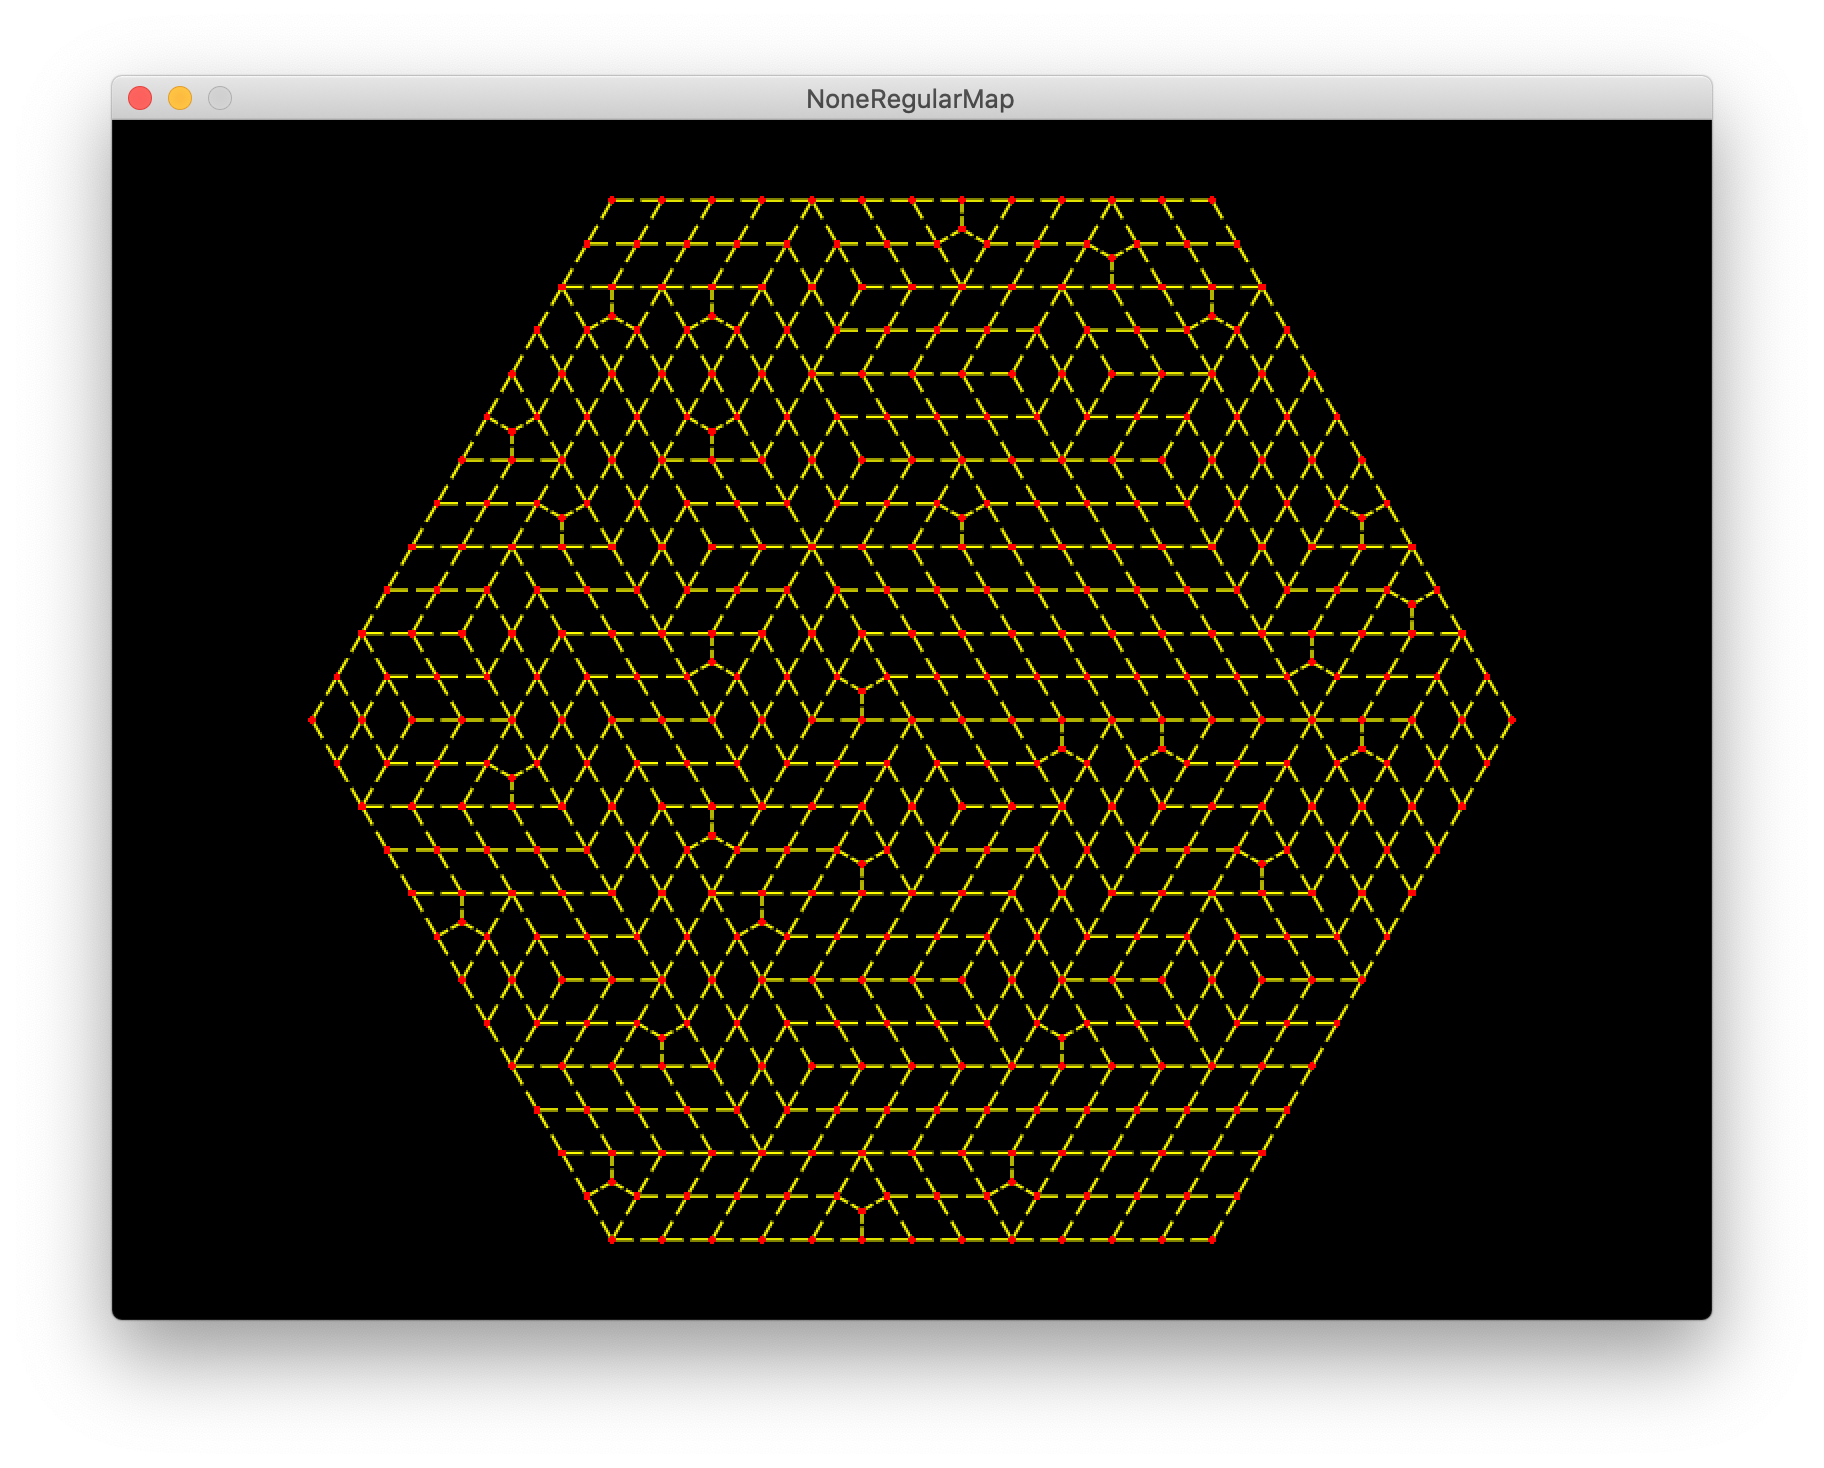
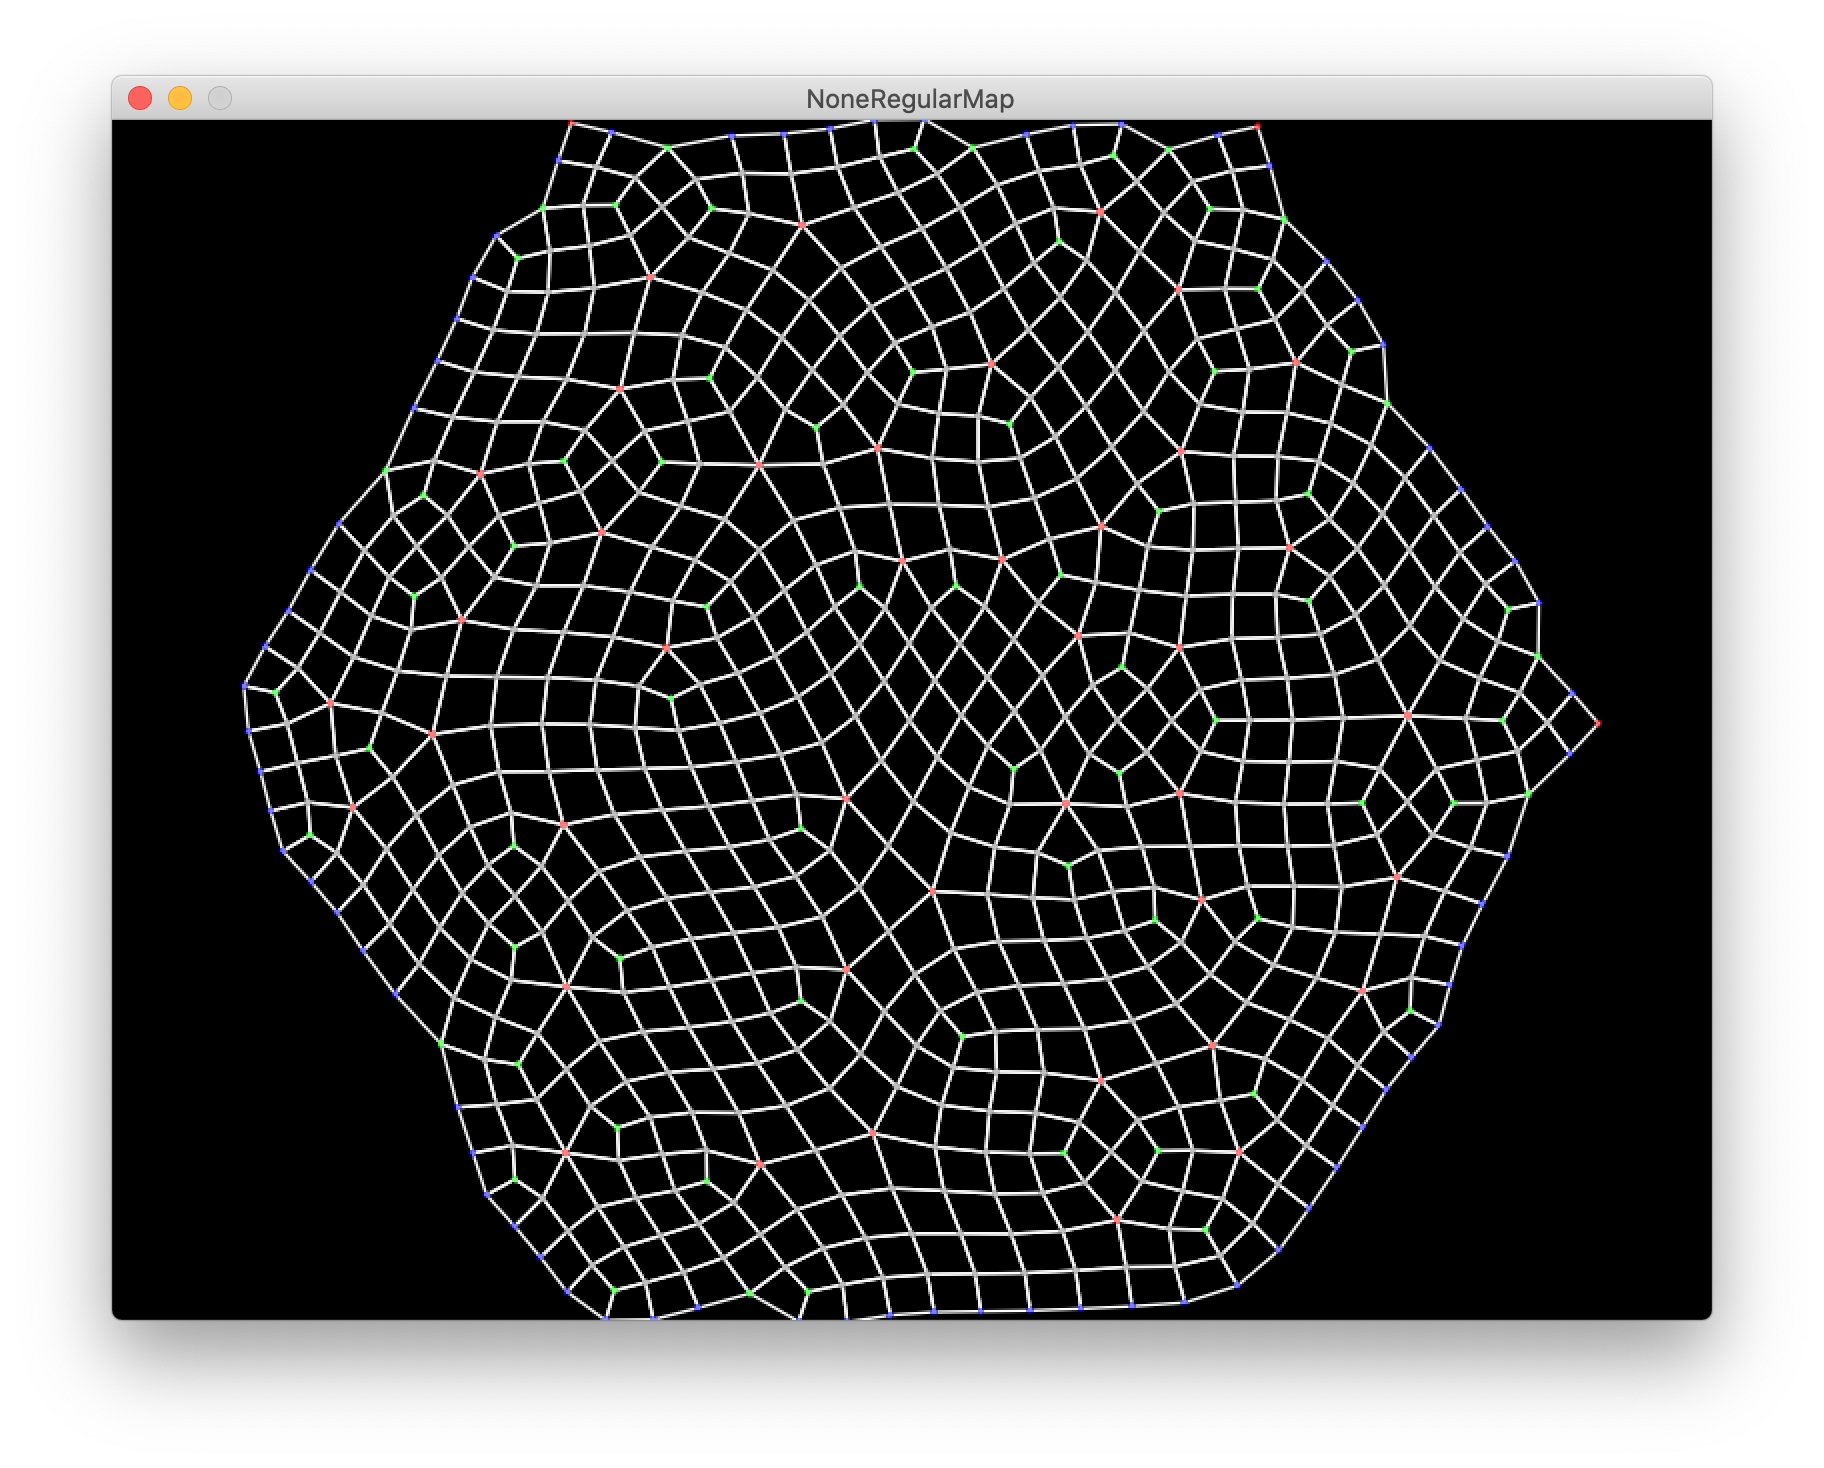
import improvment from smoothing algorithm. select better parameter as input

Changed region(s): [[0.125, 0.0613, 0.875, 0.9196]]

diff --git a/src/smooth.ts b/src/smooth.ts
@@ -3,6 +3,23 @@ import {Vector} from './vector'
 import {Quad} from './quad'
 import {Colors} from './color'
 
+function closest(point:Vector,distanceMax:number,points:Vector[]):number{
+	let min = distanceMax
+	let selectedMin = -1
+	for(let i:number=0;i<points.length;i++){
+		let d:number = point.dist(points[i])
+		if(d<min){
+			selectedMin = i;
+			min = d
+		}
+	}
+	return selectedMin
+}
+
+function mapping(before:[Vector,Vector,Vector,Vector],after:[Vector,Vector,Vector,Vector],strechFactor:number):number{
+	return closest(after[0],strechFactor*10,before)
+}
+
 export function smooth(mesh:Mesh,strechFactor:number,shrinkFactor:number,steps:number):[Mesh,Mesh]{
 	let intermediaryMesh:Mesh = new Mesh()	
 	let smoothedMesh:Mesh = new Mesh()	
@@ -18,23 +35,25 @@ export function smooth(mesh:Mesh,strechFactor:number,shrinkFactor:number,steps:n
 
 	for(let i:number=0;i<mesh.quads.length;i++){
 		let quad = mesh.quads[i]
-		let quality = quad.quality(mesh.points)
+		let qualityBefore = quad.quality(mesh.points)
 	 	let newP = fakeQuad.shrink(quad.stretch(mesh.points,strechFactor),shrinkFactor)
 	 	for(let j:number=1;j<steps;j++){
 	 		newP = fakeQuad.shrink(fakeQuad.stretch(newP,strechFactor),shrinkFactor)
 		}
-	 	quality = fakeQuad.quality(newP)
+	 	let quality = fakeQuad.quality1(newP)
 
 		intermediaryMesh.insterQuad(newP,quad.color)
 
+		let map = mapping(quad.extract(mesh.points),newP,strechFactor)
+
 	 	newPoints[quad.points[0]][0] += quality
-	 	newPoints[quad.points[0]][1]  = newP[0].mul(quality).add(newPoints[quad.points[0]][1]) 
+	 	newPoints[quad.points[0]][1]  = newP[(0+map)%4].mul(quality).add(newPoints[quad.points[0]][1]) 
 	 	newPoints[quad.points[1]][0] += quality
-	 	newPoints[quad.points[1]][1]  = newP[1].mul(quality).add(newPoints[quad.points[1]][1]) 
+	 	newPoints[quad.points[1]][1]  = newP[(1+map)%4].mul(quality).add(newPoints[quad.points[1]][1]) 
 	 	newPoints[quad.points[2]][0] += quality
-	 	newPoints[quad.points[2]][1]  = newP[2].mul(quality).add(newPoints[quad.points[2]][1]) 
+	 	newPoints[quad.points[2]][1]  = newP[(2+map)%4].mul(quality).add(newPoints[quad.points[2]][1]) 
 	 	newPoints[quad.points[3]][0] += quality
-	 	newPoints[quad.points[3]][1]  = newP[3].mul(quality).add(newPoints[quad.points[3]][1]) 
+	 	newPoints[quad.points[3]][1]  = newP[(3+map)%4].mul(quality).add(newPoints[quad.points[3]][1]) 
 	}
 
 	for(let i:number=0;i<newPoints.length;i++){

diff --git a/main.ts b/main.ts
@@ -8,7 +8,7 @@ let scale:number = 50
 let depth:number = 6
 let center:Vector = new Vector(400,300)
 let SSOsteps:number=3;
-let smoothingStep:number=20;
+let smoothingStep:number=10;
 let smoothedMesh:Mesh;
 
 
@@ -20,13 +20,15 @@ love.draw = function() {
 }
 
 love.load = ()=>{
+	math.randomseed(os.time())
 	mesh = generate(depth,scale,center)
 
 	smoothedMesh = mesh
 	for(let i:number = 0;i<smoothingStep;i++){
-		let out = smooth(mesh,scale*4,0.2,SSOsteps)
+		let out = smooth(smoothedMesh,scale,0.2,SSOsteps)
 		smoothedMesh = out[1]
 	}
+
 }
 
 

diff --git a/src/vector.ts b/src/vector.ts
@@ -29,8 +29,8 @@ export class Vector{
 	normalize():Vector{
 		return this.mul(1/this.dist(new Vector(0,0)))
 	}
-	draw(){
-		love.graphics.setColor(1,0,0,1)
-		love.graphics.rectangle("fill",this.x-2,this.y-2,4,4,2,2)
+	draw(c:Color = new Color(1,0,0),s:number= 4){
+		love.graphics.setColor(c.r,c.g,c.b,0.5)
+		love.graphics.rectangle("fill",this.x-s/2,this.y-s/2,s,s,s/2,s/2)
 	}
 }

diff --git a/src/mesh.ts b/src/mesh.ts
@@ -17,8 +17,15 @@ export class Mesh{
 		for(let i:number=0;i<this.quads.length;i++){
 			this.quads[i].draw(this.points)
 		}
+		let c = [
+			Colors.White,
+			Colors.Red,
+			Colors.Blue,
+			Colors.Green,
+			Colors.Gray,
+		]
 		for(let i:number=0;i<this.points.length;i++){
-			this.points[i].draw()
+			this.points[i].draw(c[this.pointsToQuads[i].length],4)
 		}
 	}
 

diff --git a/src/quad.ts b/src/quad.ts
@@ -70,6 +70,15 @@ export class Quad{
 		]
 	}
 
+	extract(points:Vector[]):[Vector,Vector,Vector,Vector]{
+		return [
+			points[this.points[0]],
+			points[this.points[1]],
+			points[this.points[2]],
+			points[this.points[3]],
+		]
+	}
+
 
 	quality(points:Vector[]):number{
 		let q1 =this.quality1(points)

diff --git a/src/generate.ts b/src/generate.ts
@@ -95,7 +95,6 @@ class Link{
 }
 
 function permut(len:number,maxPerm:number): number[]{
-	math.randomseed(os.time())
 	let permutation:number[] =[]
 	for(let i:number=0;i<len;i++){
 		permutation.push(i)

diff --git a/README.md b/README.md
@@ -45,22 +45,12 @@ With no random we have all the triangle merged which is nice. We will deal with 
 
 **Fourth Step** Relaxing quad to have more smooth grid
 
-Here what we are going to use : 
+We will use the [Smoothing Algorithm for Planar and Surface Mesh Based on Element Geometric Deformation by 
+Shuli Sun, Minglei Zhang, and Zhihong Gou](http://downloads.hindawi.com/journals/mpe/2015/435648.pdf). Thanks to them. I have made a stand alone implementation [here](https://github.com/Canadadry/smoothing-mesh)
 
-1. List all the points.
-2. Quads should list point by indexing the first list
-3. Build a list of quads by points
-4. Build a list of neighbour points by points
-5. Choose a relaxing function on each point. This function should not modify the initial list but build a new one
-6. Apply your function until no points move
+And voilà 
 
-Here step 4 illustrated 
-
-![point and link to their neighbour](screenshot6.png)
-
-First attempt for relaxing point => moving each point to the gravity center of its neighbour, its called [laplacian smoothing](https://en.wikipedia.org/wiki/Laplacian_smoothing) but we should better use a more sofisticated approche as [this one](http://downloads.hindawi.com/journals/mpe/2015/435648.pdf)
-
-![rexaling to center of gravity](screenshot7.png)
+![realaxed](screenshot6.png)
 
 ## Demo Usage
 
